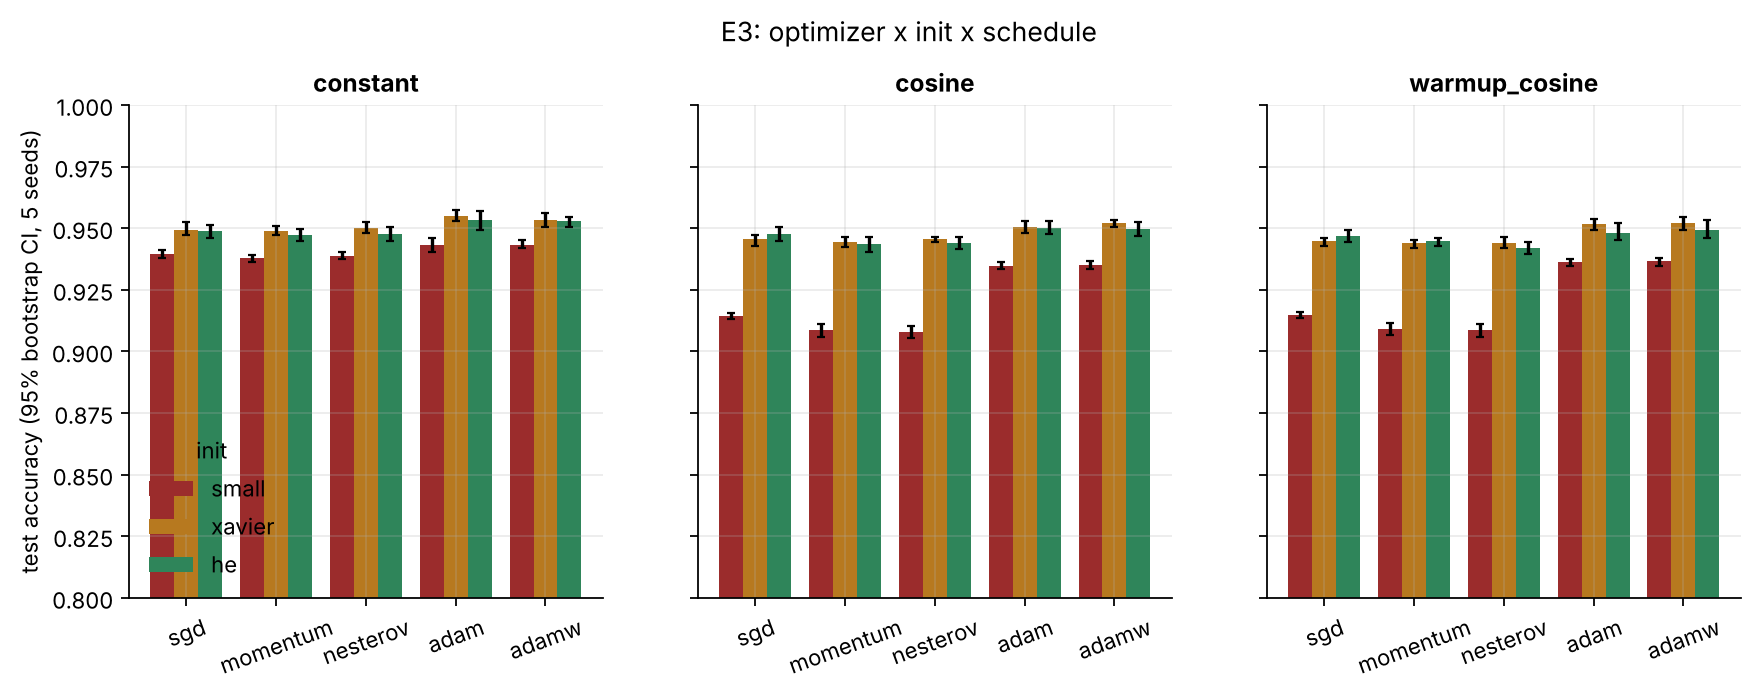
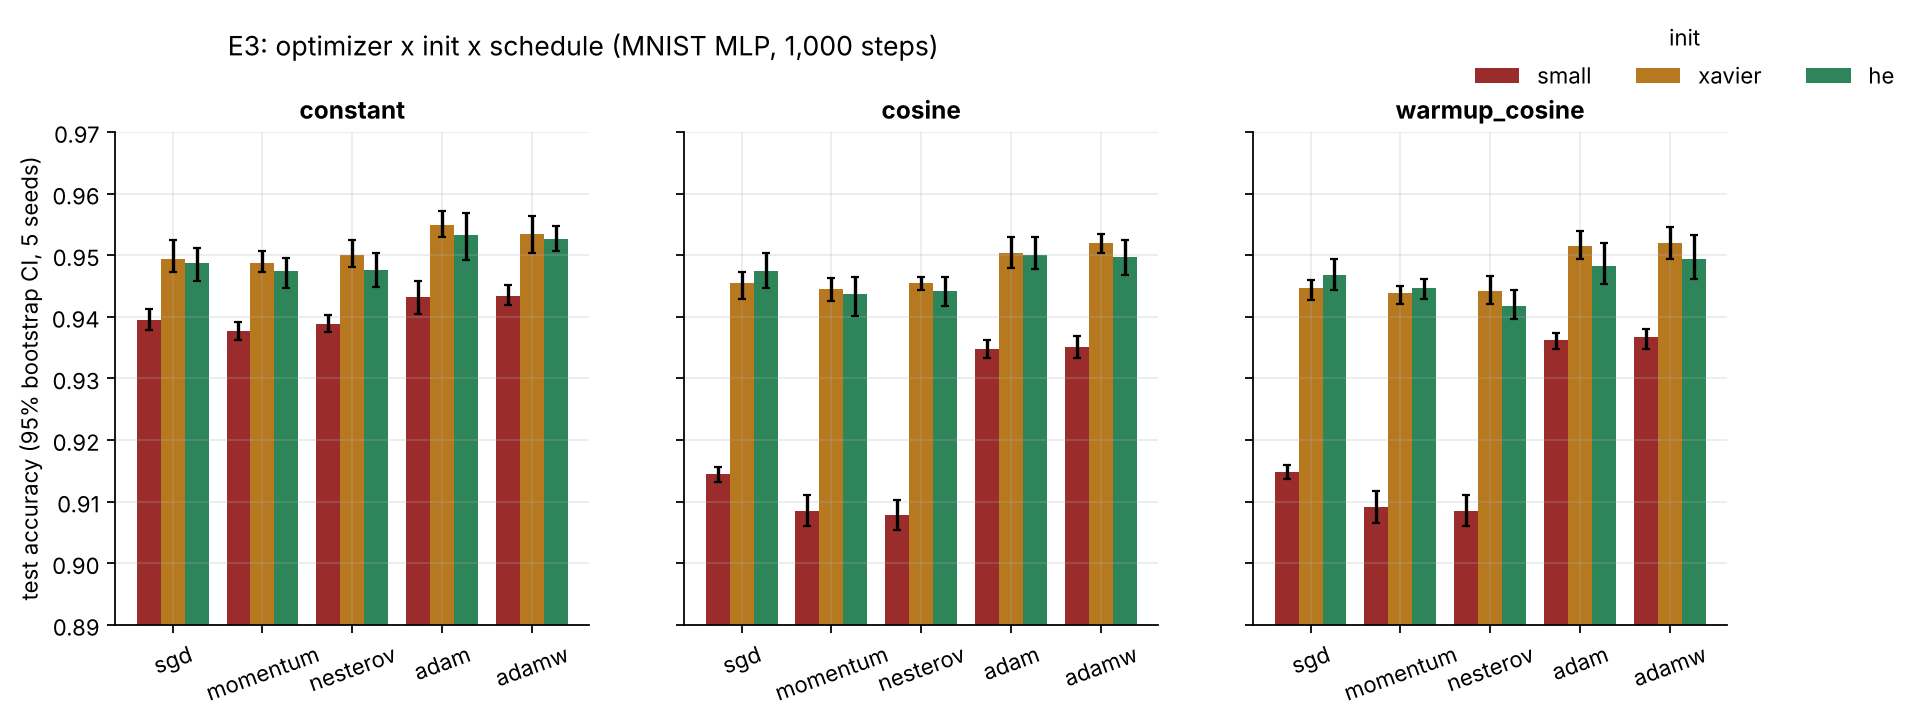
E3 figure: legend off the data, tighter y-range
Claude-Session: https://claude.ai/code/session_0167vbQ3SCYivtCTL22GZ5wF

diff --git a/experiments/optim_grid.py b/experiments/optim_grid.py
@@ -154,10 +154,12 @@ def figure(table) -> str:
             ax.bar(np.arange(len(opts)) + k * width, v, width, yerr=[lo, hi], color=colors[i], label=i, capsize=2)
         ax.set_xticks(np.arange(len(opts)) + width, opts, rotation=20)
         ax.set_title(s)
-        ax.set_ylim(0.8, 1.0)
+        lows = [r["test_acc"]["ci"][0] for r in table]
+        ax.set_ylim(np.floor(min(lows) * 100 - 1) / 100, np.ceil(max(r["test_acc"]["ci"][1] for r in table) * 100 + 0.5) / 100)
     axes[0].set_ylabel("test accuracy (95% bootstrap CI, 5 seeds)")
-    axes[0].legend(title="init")
-    fig.suptitle("E3: optimizer x init x schedule", y=1.02)
+    handles, labels = axes[0].get_legend_handles_labels()
+    fig.legend(handles, labels, title="init", ncol=3, loc="upper right", bbox_to_anchor=(0.99, 1.08))
+    fig.suptitle("E3: optimizer x init x schedule (MNIST MLP, 1,000 steps)", y=1.04, x=0.35)
     return common.save(fig, "e3_optim_grid.png")
 
 
